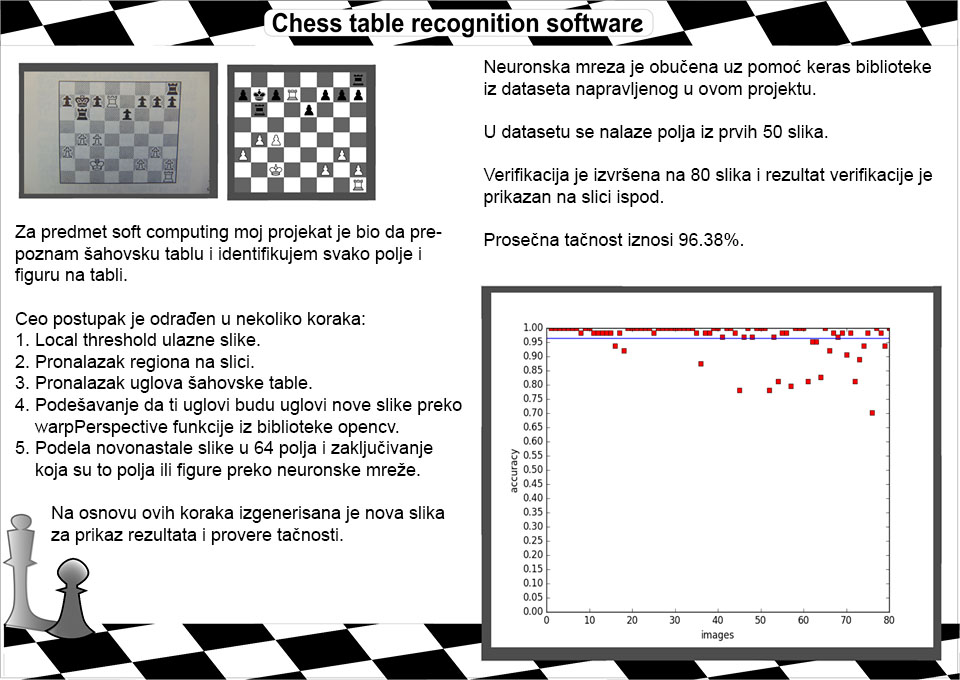
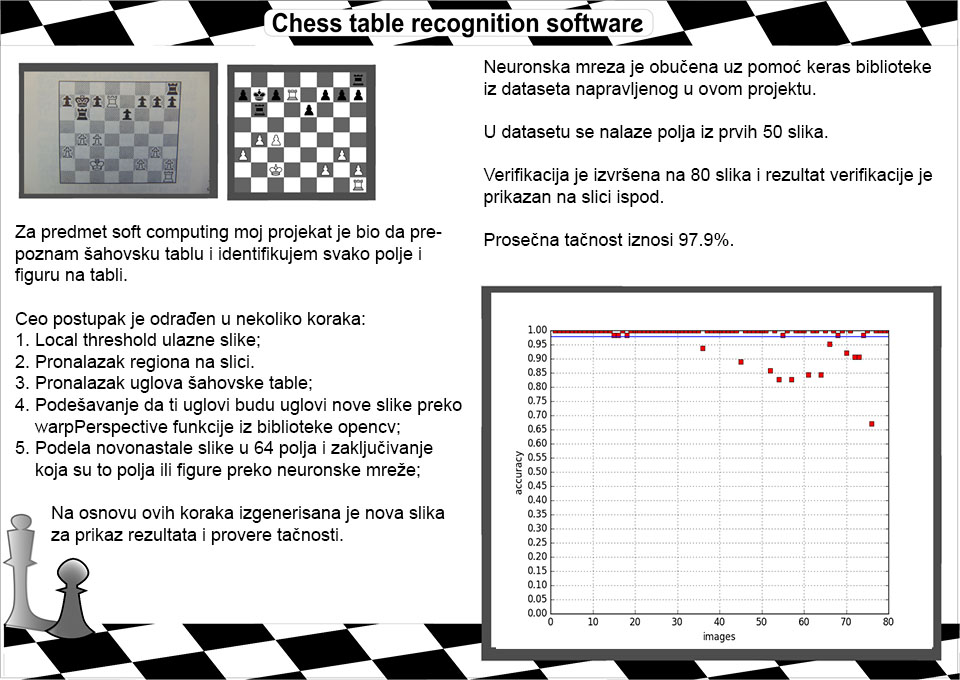
poster changed

diff --git a/main.py b/main.py
@@ -32,6 +32,6 @@ else:
 main_process('images_from_phone/img4.jpg', model=model, show=True)
 
 
-# statistics()
+statistics()
 
 #statistics_for_one_file('img36.txt', stats=True)
